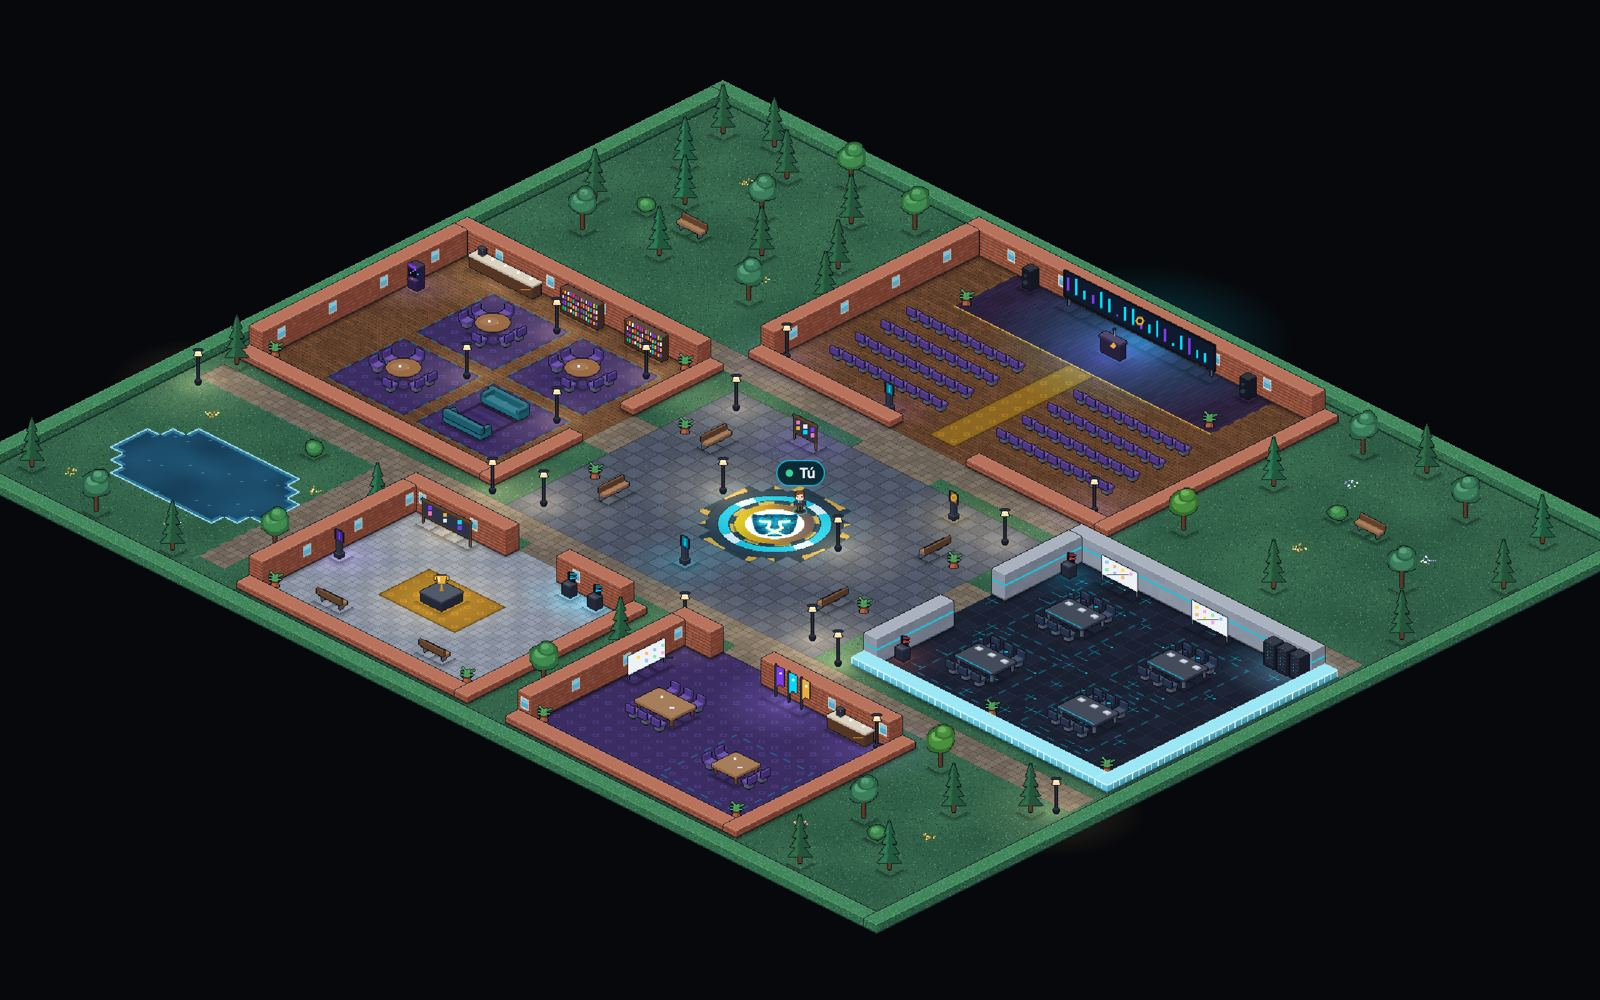
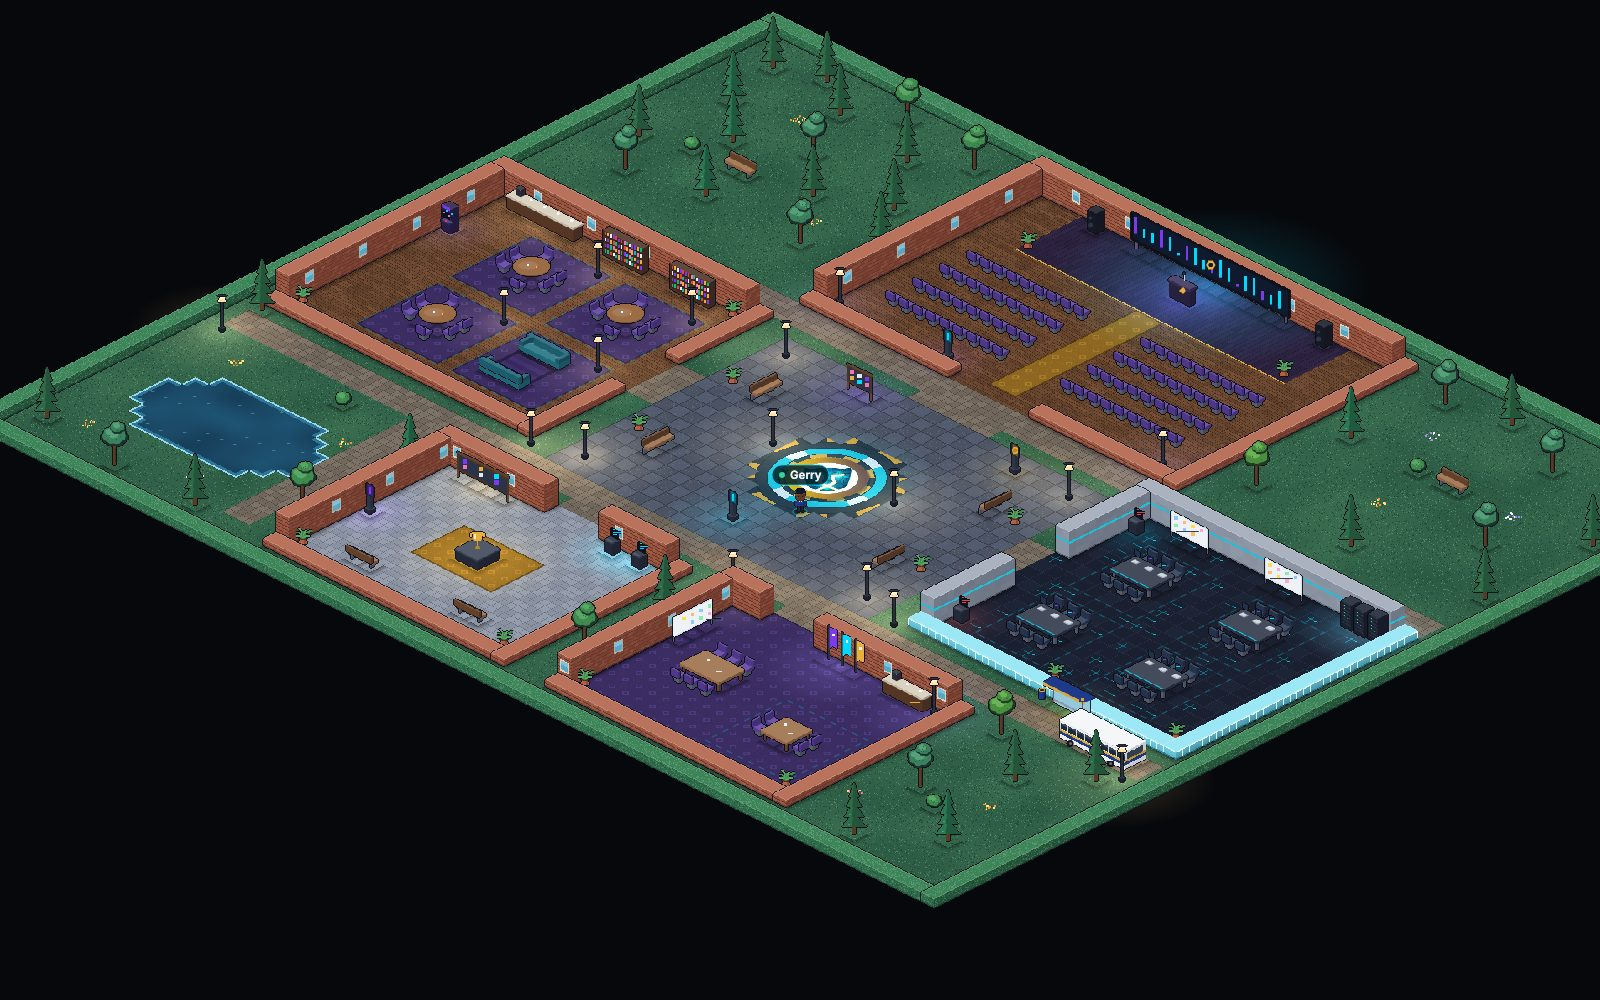
feat(campus): capturas nuevas, Ciudad Universitaria y Pumabús

diff --git a/criptounam/src/data/campusData.ts b/criptounam/src/data/campusData.ts
@@ -2,8 +2,8 @@
  * CriptoUNAM Campus — el workspace virtual de la comunidad.
  *
  * Fuente: el README de github.com/IanHerez/CriptoUNAM-WorkSpace (v0.1, piloto).
- * Las capturas son las de `docs/espacios`, reducidas a JPG en
- * public/images/campus/. Todavía no hay URL pública: cuando la haya, se pone
+ * Las capturas se tomaron del juego en local (main del 24 nov 2026, con
+ * Ciudad Universitaria y el Pumabús) y viven en JPG en public/images/campus/. Todavía no hay URL pública: cuando la haya, se pone
  * en `CAMPUS.url` y la sección muestra el botón de entrar.
  */
 
@@ -23,12 +23,14 @@ export const CAMPUS = {
   estado: 'Próximamente · piloto v0.1',
   url: undefined as string | undefined,
   resumen:
-    'Un campus 2D en pixel art donde la comunidad se encuentra: caminas con tu avatar, hablas con quien tienes cerca, entras a clases y eventos, cumples misiones y ganas $PUMA.',
+    'Un campus 2D en pixel art donde la comunidad se encuentra: caminas con tu avatar, hablas con quien tienes cerca, entras a clases y eventos, cumples misiones y ganas $PUMA. Y en el Pumabús llegas a una Ciudad Universitaria en pixel art.',
   rasgos: [
     'Audio y video por cercanía',
     'Eventos con escenario y preguntas',
     'Misiones con XP e insignias',
     'Recompensas en $PUMA',
+    'Pumabús a Ciudad Universitaria',
+    'Arcade con récords',
     'Entra con tu correo o tu wallet',
   ],
 }
@@ -39,7 +41,7 @@ export const SALAS_CAMPUS: SalaCampus[] = [
     nombre: 'El campus',
     etiqueta: '72 × 60 baldosas',
     texto:
-      'Nueve zonas alrededor de una plaza: auditorio, lounge, laboratorio, misiones, comunidad, jardín, bosque y lago, unidas por paseos de piedra.',
+      'Nueve zonas alrededor de una plaza: auditorio, lounge, laboratorio, misiones, comunidad, jardín, bosque y lago, unidas por paseos de piedra, y la parada del Pumabús junto al laboratorio.',
     imagen: `${IMG}/00-campus.jpg`,
   },
   {
@@ -89,5 +91,21 @@ export const SALAS_CAMPUS: SalaCampus[] = [
     texto:
       'Al suroeste: la orilla silenciosa no abre audio. Para leer, pensar o simplemente estar con la comunidad sin hablar.',
     imagen: `${IMG}/09-lago.jpg`,
+  },
+  {
+    id: 'cu',
+    nombre: 'Ciudad Universitaria',
+    etiqueta: 'Pumabús cada 2 min',
+    texto:
+      'El Pumabús sale cada dos minutos y te deja en Las Islas. Ahí están la Biblioteca Central, Rectoría, el Auditorio Alfonso Caso, Ingeniería y el Pedregal, en pixel art.',
+    imagen: `${IMG}/10-cu.jpg`,
+  },
+  {
+    id: 'biblioteca',
+    nombre: 'Biblioteca Central',
+    etiqueta: 'El corazón de CU',
+    texto:
+      'Con sus murales de piedra y el espejo de agua enfrente. El emblema de CriptoUNAM en la explanada marca el punto de reunión.',
+    imagen: `${IMG}/11-biblioteca.jpg`,
   },
 ]
